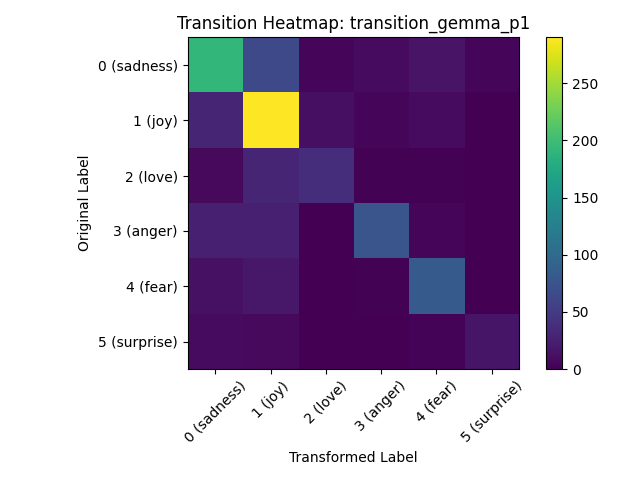
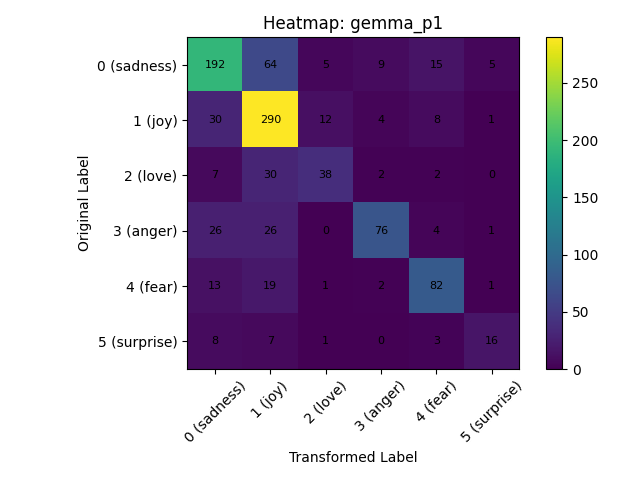
Added heatmap & transformation table

diff --git a/src/class_transition_analysis.py b/src/class_transition_analysis.py
@@ -1,0 +1,98 @@
+import os
+import pandas as pd
+
+# ===============================
+# PATH SETUP
+# ===============================
+BASE_DIR = os.path.dirname(os.path.dirname(os.path.abspath(__file__)))
+
+PRED_DIR = os.path.join(BASE_DIR, "Result", "LLM_Output", "predictions")
+OUTPUT_DIR = os.path.join(BASE_DIR, "Result", "LLM_Output", "transition_matrices")
+
+os.makedirs(OUTPUT_DIR, exist_ok=True)
+
+# ===============================
+# LABEL MAPPING
+# ===============================
+LABEL_NAMES = {
+    0: "sadness",
+    1: "joy",
+    2: "love",
+    3: "anger",
+    4: "fear",
+    5: "surprise",
+}
+
+def format_label(x):
+    return f"{x} ({LABEL_NAMES.get(x, 'unknown')})"
+
+# ===============================
+# LOAD ORIGINAL
+# ===============================
+orig_path = os.path.join(PRED_DIR, "pred_original.csv")
+orig = pd.read_csv(orig_path)
+
+# Normalize column names
+orig.columns = orig.columns.str.strip().str.lower()
+
+if "prediction" not in orig.columns:
+    raise ValueError("❌ 'prediction' column missing in original file")
+
+y_orig = orig["prediction"]
+
+print("✅ Loaded original predictions")
+
+# ===============================
+# LOOP THROUGH FILES
+# ===============================
+for file in os.listdir(PRED_DIR):
+
+    # Only process prediction files
+    if not file.startswith("pred_") or file == "pred_original.csv":
+        continue
+
+    file_path = os.path.join(PRED_DIR, file)
+    df = pd.read_csv(file_path)
+
+    # Normalize column names
+    df.columns = df.columns.str.strip().str.lower()
+
+    if "prediction" not in df.columns:
+        print(f"⚠️ Skipping {file} (no prediction column)")
+        continue
+
+    y_new = df["prediction"]
+
+    print(f"\n📊 Processing: {file}")
+
+    # ===============================
+    # CREATE TRANSITION MATRIX
+    # ===============================
+    transition = pd.crosstab(y_orig, y_new)
+
+    # Sort rows and columns
+    transition = transition.sort_index().sort_index(axis=1)
+
+    # ===============================
+    # ADD LABEL NAMES (NUMBER + TEXT)
+    # ===============================
+    transition.index = transition.index.map(format_label)
+    transition.columns = transition.columns.map(format_label)
+
+    # Axis labels
+    transition.index.name = "Original Label"
+    transition.columns.name = "Transformed Label"
+
+    print(transition)
+
+    # ===============================
+    # SAVE MATRIX
+    # ===============================
+    save_name = file.replace("pred_", "transition_")
+    save_path = os.path.join(OUTPUT_DIR, save_name)
+
+    transition.to_csv(save_path)
+
+    print(f"✅ Saved: {save_path}")
+
+print("\n🎉 All transition matrices saved successfully!")

diff --git a/src/transition_analysis.py b/src/transition_analysis.py
@@ -1,0 +1,89 @@
+import os
+import pandas as pd
+
+# ===============================
+# PATH
+# ===============================
+BASE_DIR = os.path.dirname(os.path.dirname(os.path.abspath(__file__)))
+PRED_DIR = os.path.join(BASE_DIR, "Result", "LLM_Output", "predictions")
+
+# ===============================
+# LABELS
+# ===============================
+SADNESS = 0
+JOY = 1
+LOVE = 2
+ANGER = 3
+FEAR = 4
+
+# ===============================
+# LOAD ORIGINAL
+# ===============================
+orig = pd.read_csv(os.path.join(PRED_DIR, "pred_original.csv"))
+orig.columns = orig.columns.str.strip().str.lower()
+
+y_orig = orig["prediction"]
+
+results = []
+
+# ===============================
+# LOOP FILES
+# ===============================
+for file in os.listdir(PRED_DIR):
+
+    if not file.startswith("pred_") or file == "pred_original.csv":
+        continue
+
+    df = pd.read_csv(os.path.join(PRED_DIR, file))
+    df.columns = df.columns.str.strip().str.lower()
+
+    if "prediction" not in df.columns:
+        continue
+
+    y_new = df["prediction"]
+
+    # ----------------------------
+    # TOTAL COUNTS
+    # ----------------------------
+    total_sad = (y_orig == SADNESS).sum()
+    total_ang = (y_orig == ANGER).sum()
+    total_fear = (y_orig == FEAR).sum()
+
+    # ----------------------------
+    # TRANSITIONS
+    # ----------------------------
+    sad_to_joy = ((y_orig == SADNESS) & (y_new == JOY)).sum()
+    sad_to_love = ((y_orig == SADNESS) & (y_new == LOVE)).sum()
+
+    ang_to_joy = ((y_orig == ANGER) & (y_new == JOY)).sum()
+    ang_to_love = ((y_orig == ANGER) & (y_new == LOVE)).sum()
+
+    fear_to_joy = ((y_orig == FEAR) & (y_new == JOY)).sum()
+    fear_to_love = ((y_orig == FEAR) & (y_new == LOVE)).sum()
+
+    # ----------------------------
+    # PERCENTAGES
+    # ----------------------------
+    results.append({
+        "File": file,
+
+        "sad→joy_%": round((sad_to_joy / total_sad) * 100, 2) if total_sad else 0,
+        "sad→love_%": round((sad_to_love / total_sad) * 100, 2) if total_sad else 0,
+
+        "anger→joy_%": round((ang_to_joy / total_ang) * 100, 2) if total_ang else 0,
+        "anger→love_%": round((ang_to_love / total_ang) * 100, 2) if total_ang else 0,
+
+        "fear→joy_%": round((fear_to_joy / total_fear) * 100, 2) if total_fear else 0,
+        "fear→love_%": round((fear_to_love / total_fear) * 100, 2) if total_fear else 0,
+    })
+
+# ===============================
+# SAVE
+# ===============================
+result_df = pd.DataFrame(results)
+
+output_path = os.path.join(PRED_DIR, "transition_analysis.csv")
+result_df.to_csv(output_path, index=False)
+
+print(result_df)
+print("\nSaved:", output_path)

diff --git a/src/plot_transition_heatmaps.py b/src/plot_transition_heatmaps.py
@@ -13,38 +13,37 @@ OUTPUT_DIR = os.path.join(BASE_DIR, "Result", "LLM_Output", "plots")
 os.makedirs(OUTPUT_DIR, exist_ok=True)
 
 # ===============================
-# SELECT IMPORTANT FILES
+# GET ALL FILES AUTOMATICALLY
 # ===============================
-# You can change these if needed
-TARGET_FILES = [
-    "transition_gemma_p1.csv",
-    "transition_ollama_p3.csv",
-    "transition_phi3_p3.csv"
-]
+FILES = [f for f in os.listdir(TRANSITION_DIR) if f.endswith(".csv")]
+
+print("📂 Found files:", FILES)
 
 # ===============================
-# LOOP
+# LOOP THROUGH ALL FILES
 # ===============================
-for file in TARGET_FILES:
+for file in FILES:
 
     path = os.path.join(TRANSITION_DIR, file)
-
-    if not os.path.exists(path):
-        print(f"⚠️ Missing: {file}")
-        continue
 
     df = pd.read_csv(path, index_col=0)
 
     plt.figure()
 
     plt.imshow(df.values)
+    for i in range(len(df.index)):
+        for j in range(len(df.columns)):
+            plt.text(j, i, df.values[i, j], ha='center', va='center', fontsize=8)
 
     plt.xticks(range(len(df.columns)), df.columns, rotation=45)
     plt.yticks(range(len(df.index)), df.index)
 
     plt.xlabel("Transformed Label")
     plt.ylabel("Original Label")
-    plt.title(f"Transition Heatmap: {file.replace('.csv','')}")
+
+    # Clean title
+    title = file.replace("transition_", "").replace(".csv", "")
+    plt.title(f"Heatmap: {title}")
 
     plt.colorbar()
 
@@ -56,3 +55,5 @@ for file in TARGET_FILES:
     print("✅ Saved:", save_path)
 
     plt.show()
+
+print("\n🎉 All heatmaps generated!")